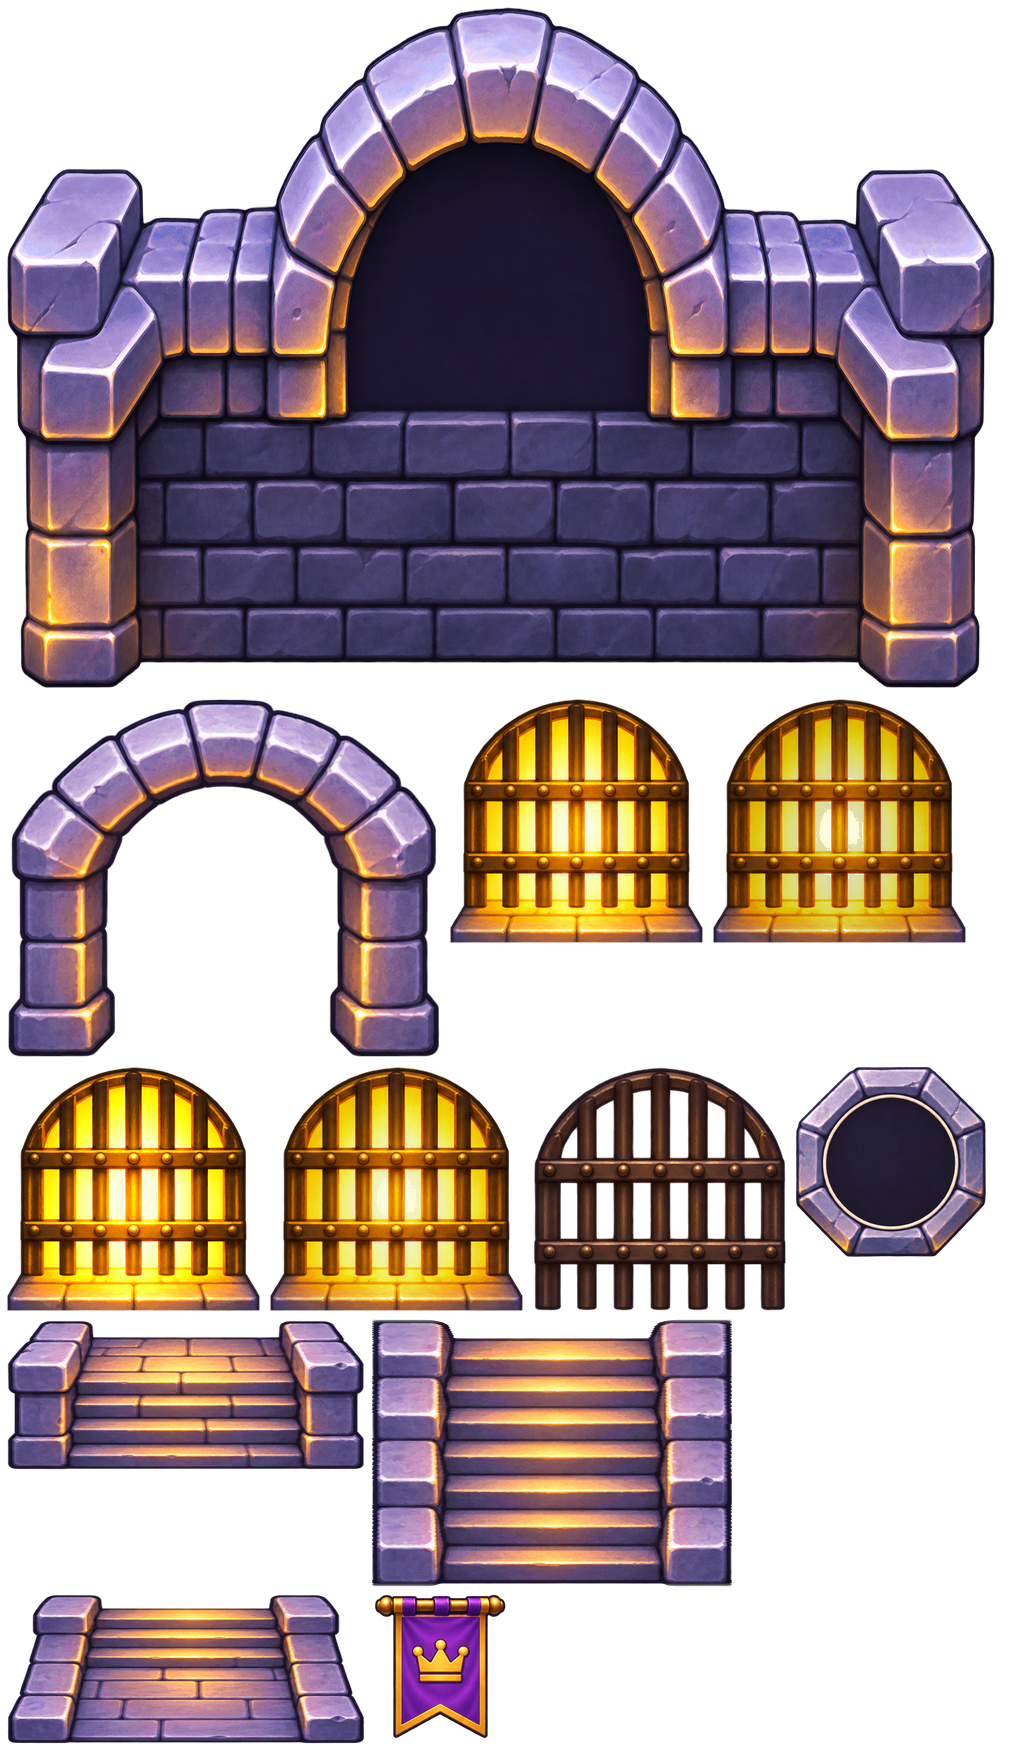
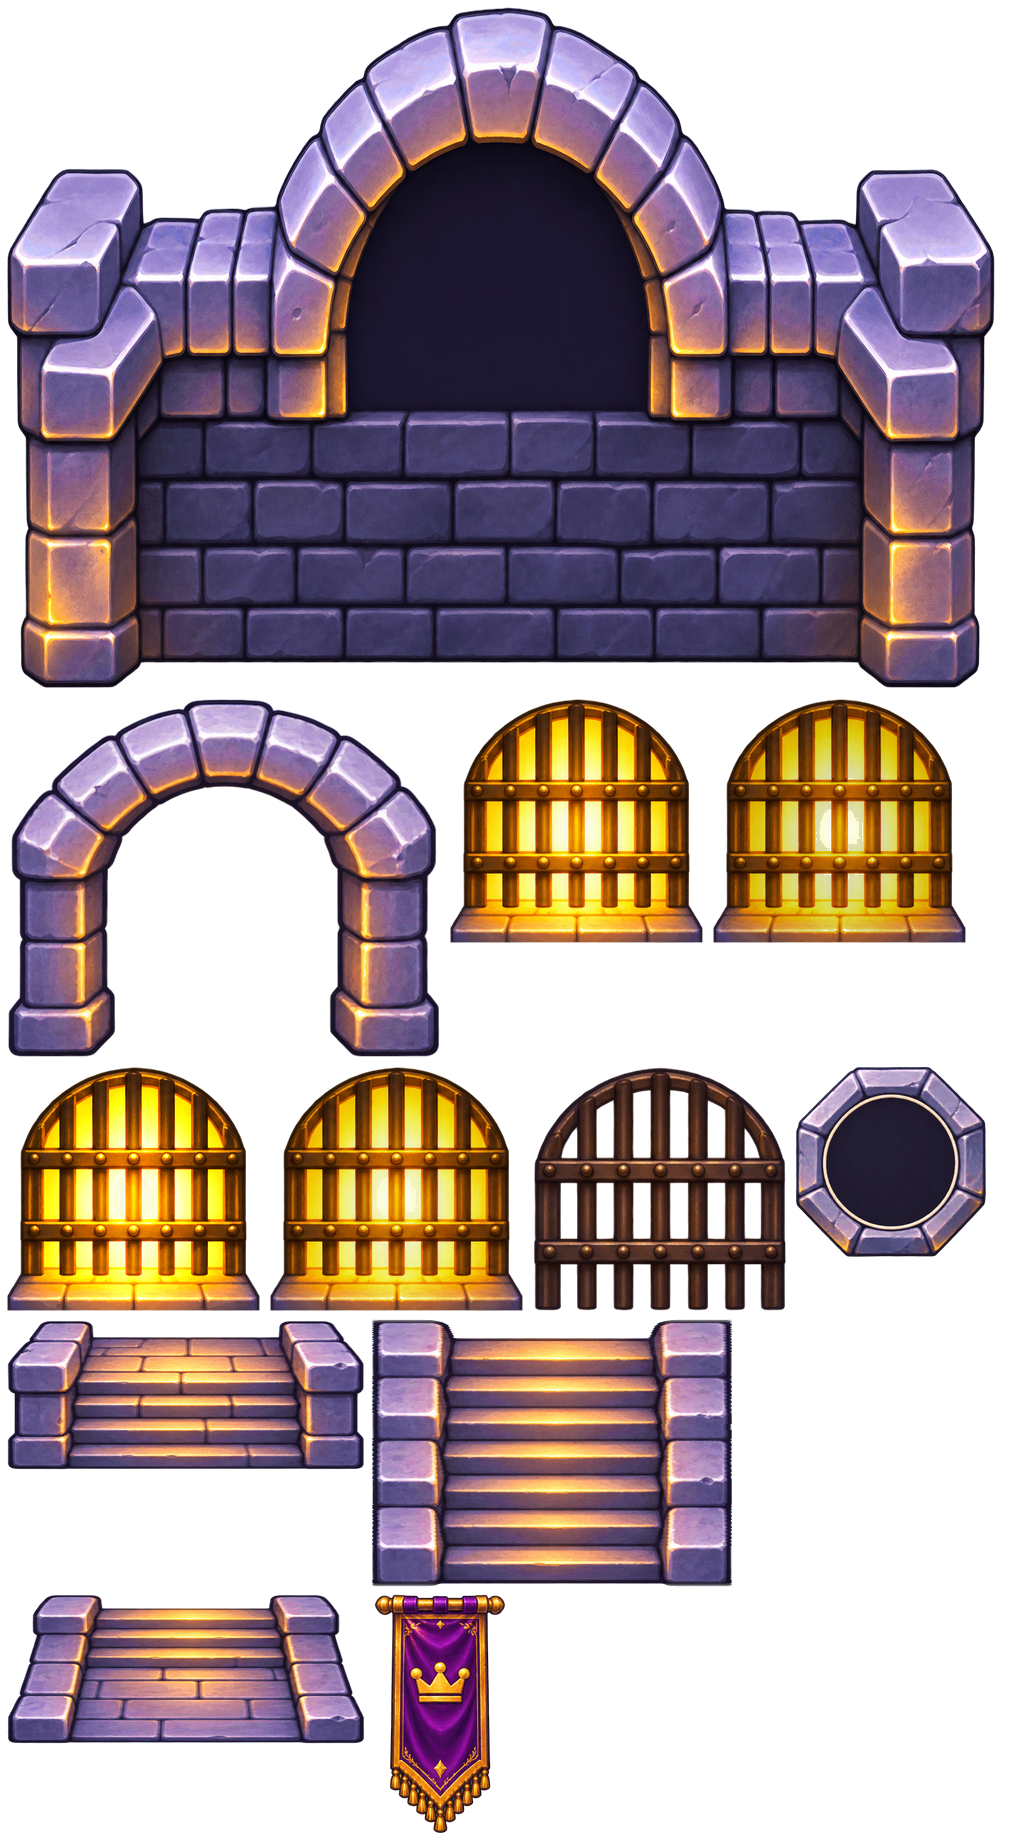
Dungeon Board art v7
Taller banners, a fringed crown banner and two corbel frames. Anchors and robot
pixels unchanged; 247 frames. Provenance in ASSETS.md; the build script updated.

diff --git a/rendering/scripts/dungeon-art.py b/rendering/scripts/dungeon-art.py
@@ -8,7 +8,7 @@ from pathlib import Path
 import json, math, re, argparse, os, shutil, statistics
 
 LIVE = Path('rendering/src/assets/dungeon')
-OUT = Path('rendering/artifacts/dungeon/v6/staging')
+OUT = Path('rendering/artifacts/dungeon/v7/staging')
 ART = Path('rendering/artifacts/dungeon')
 RESAMPLE = Image.Resampling.LANCZOS
 SHEETS = {}
@@ -440,6 +440,7 @@ def build():
     build_robots_v4()
     fix_art_v5()
     build_gold_props_v6()
+    hanging_v7()
 
 def pack():
     OUT.mkdir(parents=True,exist_ok=True)
@@ -636,6 +637,7 @@ def validate():
     expected += ['pr-'+x for x in ['ci-running','ci-green','ci-failing','review-awaiting','review-approved','review-changes','conflicts']]+['probe-'+x for x in ['reviewing','approved','findings','stale','failed']]+['seal-automerge']
     expected += ['rampart-x','rampart-y','rampart-corner-tl','rampart-corner-tr','rampart-corner-bl','rampart-corner-br','rampart-end-left','rampart-end-right','rampart-end-top','rampart-end-bottom','rampart-t-down','terrace-floor','alcove-ledge','gate-surround','torch-out','mark-asking','glow-asking']
     expected += ['room-arch','room-cave','room-magic','room-forge','pillar-capital','window-arch','chain-pair']
+    expected += ['corbel-left','corbel-right']
     expected += [f'{b}-{i}' for b in ['candelabra','wall-candles'] for i in range(4)]+['candelabra-out','wall-candles-out']
     missing=sorted(set(expected)-set(frames));extra=sorted(set(frames)-set(expected))
     if missing:errors.append('Missing '+str(missing))
@@ -1081,9 +1083,68 @@ def props_only_v6(publish_live=False):
     if publish_live:publish()
 
 
+def sources_v7(key):
+    boxes_path=ART/'v7/source-crops.json'
+    boxes=json.loads(boxes_path.read_text())['v7-'+key] if boxes_path.exists() else json.loads((LIVE/'prompts.json').read_text())['v7_generations']['v7-'+key]['crops']
+    im=Image.open(ART/'v7'/(key+'-raw.png')).convert('RGBA');return [trim(im.crop(b)) for b in boxes]
+
+def dark_cloth_v7(im):
+    rgb=list(im.getdata());hsv=im.convert('RGB').convert('HSV');lab=ImageCms.applyTransform(im.convert('RGB'),_TO_LAB);ld=list(lab.getdata());mask=bytearray(len(rgb))
+    for k,((h,s,v),(l,a,b),p) in enumerate(zip(hsv.getdata(),ld,rgb)):
+        if p[3]>0 and 205<=h*360/255<=330 and s>64 and 45<l<230:ld[k]=(round(l*.94),a,b);mask[k]=1
+    lab.putdata(ld);converted=ImageCms.applyTransform(lab,_TO_RGB);out=im.copy();out.putdata([(*q,p[3]) if mask[k] else p for k,(p,q) in enumerate(zip(rgb,converted.getdata()))]);return clean(out)
+
+def hanging_v7():
+    parts=sources_v7('banners');names=['banner-purple-layers','banner-purple','banner-navy-hammers','banner-blue-anvil','banner-crown'];new={}
+    for n,p in zip(names,parts):
+        size=(136,244) if n=='banner-crown' else (160,246);new[n]=framed_v5(dark_cloth_v7(p),size)
+    for sheet in ['props','gate']:
+        SHEETS[sheet]=[(n,new.get(n,im),info) for n,im,info in SHEETS[sheet]]
+    for n,im in new.items():SPRITES[n]=im
+    for n,p in zip(['corbel-left','corbel-right'],sources_v7('corbels')):add('stone',n,fit(p,(84,90),True),'top')
+
+def load_baseline_v7():
+    load_live_art();base=ART/'v7/before'
+    for sheet in ['props','gate','stone']:
+        j=json.loads((base/(sheet+'.json')).read_text());im=Image.open(base/(sheet+'.png')).convert('RGBA');SHEETS[sheet]=[]
+        for n,f in j['frames'].items():
+            v=im.crop((f['x'],f['y'],f['x']+f['w'],f['y']+f['h']));info={k:z for k,z in f.items() if k not in ['x','y','w','h']};SPRITES[n]=v;META[n]=info;SHEETS[sheet].append((n,v,info))
+
+def hanging_review_v7():
+    old=ART/'v7/before';pairs=[('props','banner-purple-layers'),('props','banner-navy-hammers'),('gate','banner-crown')];im=Image.new('RGBA',(1500,1180),'#211c31');d=ImageDraw.Draw(im);d.text((20,15),'V7 / previous left / revised right / same mounting width and anchor',fill='white')
+    for i,(sheet,n) in enumerate(pairs):
+        y=60+i*310;j=json.loads((old/(sheet+'.json')).read_text());f=j['frames'][n];a=Image.open(old/(sheet+'.png')).crop((f['x'],f['y'],f['x']+f['w'],f['y']+f['h']));im.alpha_composite(a,(30,y));im.alpha_composite(SPRITES[n],(700,y));d.text((30,y-20),n,fill='white')
+    for x,n in [(30,'corbel-left'),(300,'corbel-right')]:im.alpha_composite(SPRITES[n],(x,1030));d.text((x,1000),n,fill='white')
+    im.convert('RGB').save(ART/'v7/art-review.png',optimize=True)
+
+def validate_hanging_v7():
+    old=ART/'v7/before';allowed={'banner-purple-layers','banner-purple','banner-navy-hammers','banner-blue-anvil','banner-crown'};errors=[];count=0
+    for path in old.glob('*.json'):
+        if path.stem=='prompts':continue
+        a=json.loads(path.read_text());b=json.loads((OUT/path.name).read_text());before=Image.open(old/a['image']).convert('RGBA');after=Image.open(OUT/b['image']).convert('RGBA')
+        for n,f in a['frames'].items():
+            count+=1;g=b['frames'].get(n)
+            if not g or g['anchor']!=f['anchor']:errors.append(n+' anchor/name changed');continue
+            if n not in allowed:
+                if (g['w'],g['h'])!=(f['w'],f['h']):errors.append(n+' dimensions changed')
+                v=before.crop((f['x'],f['y'],f['x']+f['w'],f['y']+f['h']));w=after.crop((g['x'],g['y'],g['x']+g['w'],g['y']+g['h']))
+                if v.tobytes()!=w.tobytes():errors.append(n+' pixels changed')
+    report={'old_names_and_anchors_preserved':count,'intentional_taller_canvases':sorted(allowed),'new_frames':['corbel-left','corbel-right'],'errors':errors};(ART/'v7/anchor-validation.json').write_text(json.dumps(report,indent=2)+'\n');print(json.dumps(report,indent=2))
+    if errors:raise SystemExit(1)
+
+def hanging_only_v7(publish_live=False):
+    global OUT
+    OUT=ART/'v7/staging';OUT.mkdir(parents=True,exist_ok=True);sync_provenance_v5(OUT)
+    for p in LIVE.iterdir():
+        if p.suffix in ['.png','.json'] and not (p.name=='prompts.json' and (OUT/p.name).exists()):shutil.copy2(p,OUT/p.name)
+    load_baseline_v7();hanging_v7();pack();validate();validate_hanging_v7();contact();hanging_review_v7()
+    if publish_live:publish()
+
+
 if __name__=='__main__':
-    parser=argparse.ArgumentParser();parser.add_argument('--validate-only',action='store_true');parser.add_argument('--publish',action='store_true');parser.add_argument('--publish-staged',action='store_true');parser.add_argument('--robots-only',action='store_true');parser.add_argument('--art-only',action='store_true');parser.add_argument('--props-only',action='store_true');args=parser.parse_args()
-    if args.props_only:props_only_v6(args.publish)
+    parser=argparse.ArgumentParser();parser.add_argument('--validate-only',action='store_true');parser.add_argument('--publish',action='store_true');parser.add_argument('--publish-staged',action='store_true');parser.add_argument('--robots-only',action='store_true');parser.add_argument('--art-only',action='store_true');parser.add_argument('--props-only',action='store_true');parser.add_argument('--hanging-only',action='store_true');args=parser.parse_args()
+    if args.hanging_only:hanging_only_v7(args.publish)
+    elif args.props_only:props_only_v6(args.publish)
     elif args.art_only:art_only_v5(args.publish)
     elif args.robots_only:robots_only(args.publish)
     elif args.validate_only:

diff --git a/rendering/ASSETS.md b/rendering/ASSETS.md
@@ -929,7 +929,7 @@ These are useful original coast parts, not a pixel-identical reconstruction of t
 
 ## Dungeon Board
 
-The geometry kit is v3, robots are v4, and material/furnishing refinements are v5–v6. Artwork was generated with the built-in
+The geometry kit is v3, robots are v4, and material/furnishing refinements are v5–v7. Artwork was generated with the built-in
 `image_gen` tool on 2026-11-06.
 The private `design/references/dungeon-concept.png` was inspected at 3×,
 particularly its LOCAL floor, left terrace, workspace recess and central gate.
@@ -950,14 +950,14 @@ Only animation frame zero supplies `fps`.
 | `robots` | 80 | Smooth glossy shell, ten body colours, idle/work poses and flying drones |
 | `alcoves` | 11 | Four sparse interiors, chunky piers, lintel, new ledge and three redrawn candle flames |
 | `gate` | 12 | New upper host surround, lower arch, lit/dark portcullis, stairs with side walls, host disc and crown banner |
-| `stone` | 33 | Existing architecture plus the full raised rampart kit, terrace floor and two diagonal returns |
+| `stone` | 35 | Existing architecture plus the full raised rampart kit, terrace floor and two diagonal returns |
 | `ui` | 28 | Simple clipped parchment, thin bronze borders, dark discs in pale octagonal mounts, pictograms/counts/dots |
 | `props` | 54 | Furnishings, animated fires/magic, candelabra and wall-candle families, unlit variants |
 | `status` | 27 | Existing markers, glows and PR/Probe states, plus violet `mark-asking` / `glow-asking` |
 
-There are 245 frames: all 235 earlier frames, including the 233 required names
-and the optional `rampart-return-left` / `rampart-return-right`, plus ten new
-optional candle-fixture frames from v6. The two optional
+There are 247 frames: the 235 earlier frames, ten candle-fixture frames from v6,
+and two underside corbels from v7. The original required names and optional
+`rampart-return-left` / `rampart-return-right` are retained. The two optional
 diagonal wall runs let a terrace or alcove show the angled returns in the
 reference. None of the required names was removed or renamed. PR/Probe names
 continue to follow `prStatus.ts` and `probe.ts`.
@@ -1040,7 +1040,7 @@ asset set; `--publish-staged` checks an already complete stage before replacemen
 Private review images:
 
 - `artifacts/dungeon/calibration.png`: matching LOCAL-left crops at 3×.
-- `artifacts/dungeon/contact-sheet.png`: all 245 labelled frames.
+- `artifacts/dungeon/contact-sheet.png`: all 247 labelled frames.
 - `artifacts/dungeon/mock.png`: the LOCAL floor reconstructed only from sprites, beside the matching 1199×365 concept crop at 3×.
 - `artifacts/dungeon/v3/local-floor.png`: the generated half of that comparison.
 - `artifacts/dungeon/tile-wall-brick-6x4.png` and `tile-wall-brick-dark-6x4.png`: wall-repeat proofs.
@@ -1185,6 +1185,45 @@ includes the same v6 refinement. Original 235 names and all old anchors are
 preserved; 245 total frames validate and the asset folder stays below 12 MB.
 The critique's paired remaining-gap crops are `artifacts/dungeon/gaps-2.png`;
 `v6/candle-poses.png` shows the registered new fire fixtures.
+
+
+V7 follows the compare-13 review (`artifacts/dungeon/gaps-3.md`), scored 7.5/10
+before new art integration. Improved furnishing/candle clusters are recognised;
+remaining major issues are exposed wall mass, a platform strip crossing the next
+host's arch/icon, and light/geometry continuity. No robot or gate-light changes
+are made. Two built-in generations repaint hanging banners and supply actual
+underside corbels; exact prompts/source rectangles are in `v7_generations`.
+
+The four ordinary banners retain their names, 160-pixel width and exact
+(80,2) mounting anchor, but their canvas becomes 246 pixels tall. This corrects
+the squat whole-banner aspect ratio; it is an intentional natural-proportion
+change, not merely higher sampling resolution. At a displayed width of 72 board
+units, leave roughly 111 units of hanging clearance. Cloth is kept dark enough
+to support agent priority. The crown retains its 136-pixel width and exact
+(68,2) anchor, grows to 244 pixels tall and has a pointed drape with rich gold
+fringe. Its final world footprint/placement still belongs to the renderer.
+
+New `stone` entries `corbel-left` and `corbel-right` are 84×90 pixels of artwork
+plus two pixels of padding on each side, top-centre anchored at (44,2). Their
+wide upper mounting lip and shaded, stepped/chipped lower mass are designed to
+carry a platform edge. The geometry is mirrored as a pair but both retain
+upper-left illumination. Place a few substantial supports at actual wall/room
+boundaries, not one under every block. Renderer registration and placement are
+still required; these frames do not themselves fix the central arch cutout.
+
+Every old frame name and exact pixel anchor is preserved. Apart from the five
+intentionally taller/repainted banners, all old frames retain identical pixels
+and dimensions, verified by decoding their before/after frame rectangles.
+Robots remain byte-identical. All 247 frames pass alpha, gutter, declared tile
+edge and animation-registration checks; the folder remains below 12 MB.
+
+Raw outputs and the pre-pass kit are private in `artifacts/dungeon/v7/` and
+`v7/before/`. The builder's `--hanging-only` mode stages and validates the pass;
+`--hanging-only --publish` replaces its checked sheets atomically. The full
+raw-source rebuild includes v7. `v7/art-review.png` compares old/new banners at
+one width and shows the two corbels. `v7/join-crops.png` records the code-side
+arch obstruction in compare-13. Review captures describe that baseline, not a
+new app render after these assets have been integrated.
 
 Remaining differences: the concept's masonry has more bespoke pixel-like chips,
 uneven joints and integrated painted shadows. V3 is smoother, its joins and
